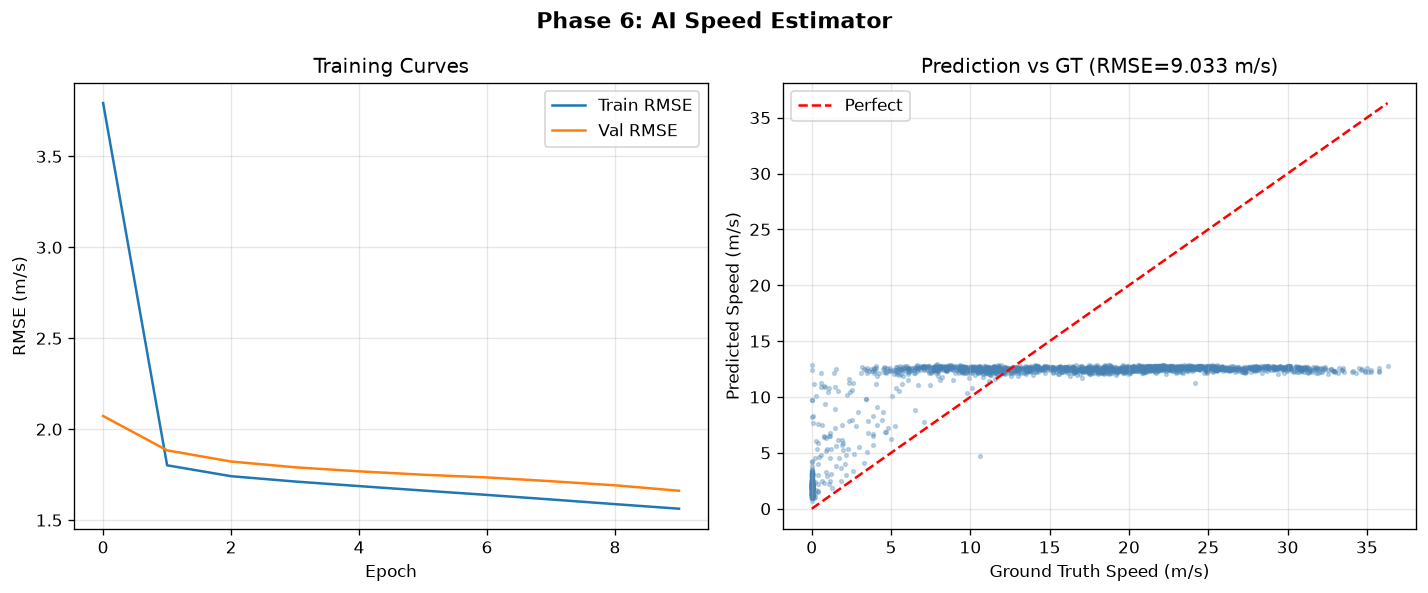
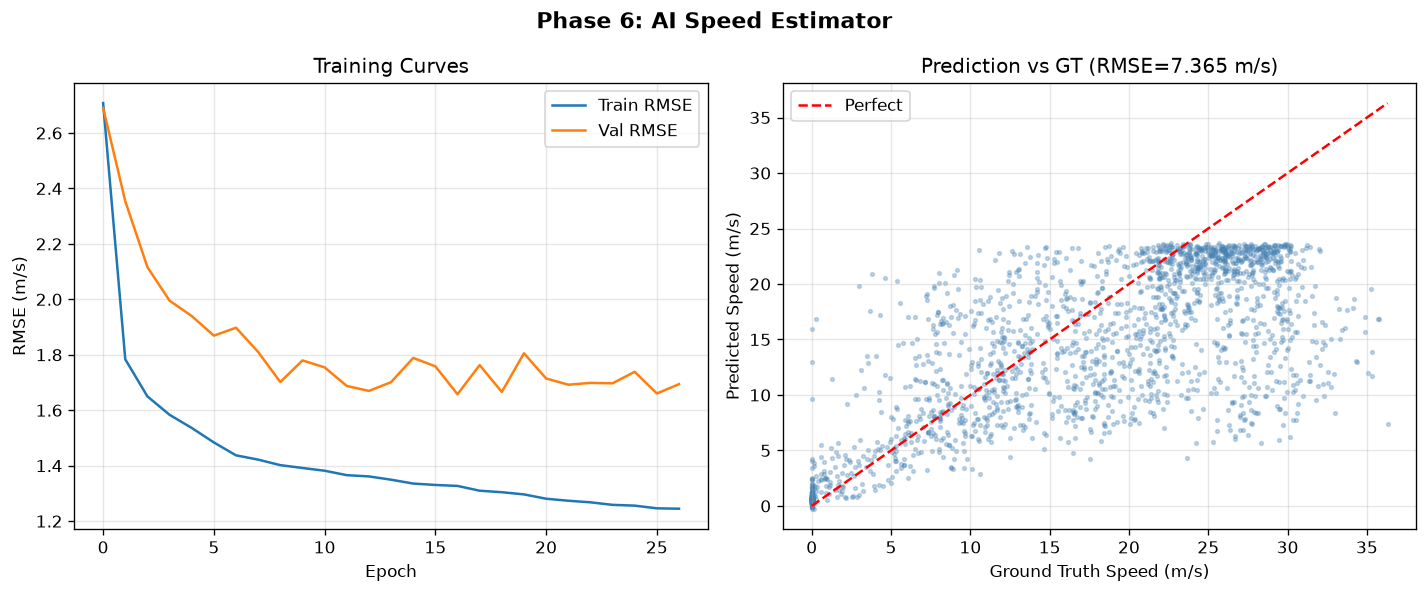
Update metrics/plots and freeze the pre-data-collection baseline
results/metrics/baseline_frozen_2026-09-15/ is an immutable snapshot of the
checkpoint, split, normalization stats and evaluation results at the point the
failure analysis concluded the model is data-limited. Future data-collection
stages compare against these numbers rather than whatever happens to be in
results/metrics at the time.

Also regenerated with the corrected pipeline: split manifest (Vf moved out of
test), normalization stats (now computed from aligned data), phase 8
evaluation (5-window-averaged), and the DR replay diagnostic plot.

diff --git a/results/metrics/dataset_diagnostics_report.md b/results/metrics/dataset_diagnostics_report.md
@@ -1,0 +1,131 @@
+# Dataset Diagnostics Report
+
+## Warnings (sequences excluded or flagged)
+- None.
+
+## Overview
+- Sequences: 71
+- Total duration: 26.97 hours
+- Total distance: 1238.5 km
+- Distinct driver identities: 6 — ['S (Driver A)', 'Vf (Driver E)', 'Vta (Driver E)', 'Vtb (Driver E)', 'Vw (Driver E)', 'Y (Driver D)']
+- Distinct vehicle identities: 1 — ['n/a (IO-VNBD; not separately identified)']
+
+## Per-split breakdown
+| Split | Sequences | Hours | km | Drivers | Vehicles |
+|---|---:|---:|---:|---|---|
+| train | 42 | 6.75 | 311.6 | Vta (Driver E), Vtb (Driver E) | n/a (IO-VNBD; not separately identified) |
+| val | 22 | 9.52 | 590.4 | Vf (Driver E), Vw (Driver E) | n/a (IO-VNBD; not separately identified) |
+| test | 7 | 10.71 | 336.5 | S (Driver A), Y (Driver D) | n/a (IO-VNBD; not separately identified) |
+
+## Speed distribution (all sequences combined)
+| Bin (m/s) | Count | Fraction |
+|---|---:|---:|
+| 0-0.5 | 111953 | 11.6% |
+| 0.5-2 | 35552 | 3.7% |
+| 2-5 | 58373 | 6.1% |
+| 5-10 | 194438 | 20.2% |
+| 10-20 | 333163 | 34.5% |
+| 20+ | 231288 | 24.0% |
+
+## Distribution differences between splits
+  test  : speed mean=8.80 m/s, std=6.30 m/s, n_samples=379124
+  val   : speed mean=17.25 m/s, std=9.84 m/s, n_samples=342588
+  train : speed mean=12.82 m/s, std=7.66 m/s, n_samples=243055
+  KS test train vs val: statistic=0.299, p=0.00e+00 (DIFFERENT distributions)
+  KS test train vs test: statistic=0.276, p=0.00e+00 (DIFFERENT distributions)
+  KS test val vs test: statistic=0.483, p=0.00e+00 (DIFFERENT distributions)
+
+## Synchronization issues (V-file/S-file row-count mismatch)
+- V-Vfa01: V=11535 rows, S=11486 rows (handled by truncation in loader.load_sequence — informational only)
+- V-Vfa02: V=67755 rows, S=67523 rows (handled by truncation in loader.load_sequence — informational only)
+- Vta01b: V=953 rows, S=954 rows (handled by truncation in loader.load_sequence — informational only)
+- Vtb10: V=195 rows, S=196 rows (handled by truncation in loader.load_sequence — informational only)
+- Vw01: V=20475 rows, S=20476 rows (handled by truncation in loader.load_sequence — informational only)
+- Vw02: V=52712 rows, S=52713 rows (handled by truncation in loader.load_sequence — informational only)
+- Vw04: V=126527 rows, S=126526 rows (handled by truncation in loader.load_sequence — informational only)
+- Vw09: V=553 rows, S=552 rows (handled by truncation in loader.load_sequence — informational only)
+- Vw15: V=1391 rows, S=1380 rows (handled by truncation in loader.load_sequence — informational only)
+
+## Missing data
+- None found in latitude/velocity/accel_x.
+
+## Train/val/test contamination check
+- ✅ No driver/vehicle identity appears in more than one split.
+
+## Duplicate / near-duplicate segment detection
+- ⚠  Vw07 and Vw08 have similar start location, duration, and distance — check they aren't the same drive ingested twice, or trivially redundant.
+
+## Per-sequence detail
+| Sequence | Split | Driver | Vehicle | Duration (min) | Distance (km) | Mean speed (m/s) | Mean |fwd accel| (m/s²) | Mean |yaw rate| (rad/s) |
+|---|---|---|---|---:|---:|---:|---:|---:|
+| S1 | test | S (Driver A) | n/a (IO-VNBD; not separately identified) | 86.2 | 38.0 | 7.33 | 0.79 | 0.069 |
+| S2 | test | S (Driver A) | n/a (IO-VNBD; not separately identified) | 156.5 | 75.5 | 8.04 | 0.82 | 0.066 |
+| S3a | test | S (Driver A) | n/a (IO-VNBD; not separately identified) | 41.0 | 25.9 | 10.54 | 0.65 | 0.058 |
+| S3b | test | S (Driver A) | n/a (IO-VNBD; not separately identified) | 11.4 | 3.8 | 5.53 | 0.79 | 0.095 |
+| S3c | test | S (Driver A) | n/a (IO-VNBD; not separately identified) | 62.0 | 44.1 | 11.75 | 0.67 | 0.060 |
+| S4 | test | S (Driver A) | n/a (IO-VNBD; not separately identified) | 157.7 | 88.4 | 9.35 | 0.75 | 0.049 |
+| V-Vfa01 | val | Vf (Driver E) | n/a (IO-VNBD; not separately identified) | 19.1 | 18.8 | 16.34 | 1.36 | 0.037 |
+| V-Vfa02 | val | Vf (Driver E) | n/a (IO-VNBD; not separately identified) | 112.5 | 163.1 | 24.15 | 1.50 | 0.016 |
+| Vta01a | train | Vta (Driver E) | n/a (IO-VNBD; not separately identified) | 42.8 | 40.7 | 15.86 | 1.98 | 0.044 |
+| Vta01b | train | Vta (Driver E) | n/a (IO-VNBD; not separately identified) | 1.6 | 1.3 | 13.21 | 1.55 | 0.038 |
+| Vta02 | train | Vta (Driver E) | n/a (IO-VNBD; not separately identified) | 18.3 | 11.0 | 10.05 | 1.74 | 0.040 |
+| Vta03 | train | Vta (Driver E) | n/a (IO-VNBD; not separately identified) | 1.1 | 0.4 | 5.83 | 0.78 | 0.098 |
+| Vta04 | train | Vta (Driver E) | n/a (IO-VNBD; not separately identified) | 3.0 | 2.0 | 11.14 | 1.67 | 0.040 |
+| Vta05 | train | Vta (Driver E) | n/a (IO-VNBD; not separately identified) | 0.5 | 0.4 | 11.80 | 1.91 | 0.068 |
+| Vta06 | train | Vta (Driver E) | n/a (IO-VNBD; not separately identified) | 2.3 | 2.6 | 18.85 | 2.43 | 0.017 |
+| Vta07 | train | Vta (Driver E) | n/a (IO-VNBD; not separately identified) | 1.4 | 1.5 | 17.94 | 1.91 | 0.075 |
+| Vta08 | train | Vta (Driver E) | n/a (IO-VNBD; not separately identified) | 6.1 | 3.4 | 9.26 | 1.20 | 0.025 |
+| Vta09 | train | Vta (Driver E) | n/a (IO-VNBD; not separately identified) | 0.3 | 0.3 | 19.93 | 1.31 | 0.006 |
+| Vta10 | train | Vta (Driver E) | n/a (IO-VNBD; not separately identified) | 2.5 | 3.7 | 25.00 | 1.87 | 0.030 |
+| Vta11 | train | Vta (Driver E) | n/a (IO-VNBD; not separately identified) | 0.8 | 0.7 | 14.05 | 2.08 | 0.165 |
+| Vta12 | train | Vta (Driver E) | n/a (IO-VNBD; not separately identified) | 1.0 | 1.1 | 18.42 | 1.29 | 0.019 |
+| Vta13 | train | Vta (Driver E) | n/a (IO-VNBD; not separately identified) | 0.7 | 1.0 | 24.26 | 1.63 | 0.040 |
+| Vta14 | train | Vta (Driver E) | n/a (IO-VNBD; not separately identified) | 4.8 | 5.4 | 18.83 | 1.83 | 0.023 |
+| Vta15 | train | Vta (Driver E) | n/a (IO-VNBD; not separately identified) | 1.4 | 1.7 | 19.88 | 1.98 | 0.023 |
+| Vta16 | train | Vta (Driver E) | n/a (IO-VNBD; not separately identified) | 18.9 | 13.7 | 12.04 | 1.30 | 0.044 |
+| Vta17 | train | Vta (Driver E) | n/a (IO-VNBD; not separately identified) | 7.5 | 4.1 | 9.08 | 1.67 | 0.050 |
+| Vta19 | train | Vta (Driver E) | n/a (IO-VNBD; not separately identified) | 0.5 | 0.2 | 8.08 | 1.28 | 0.036 |
+| Vta20 | train | Vta (Driver E) | n/a (IO-VNBD; not separately identified) | 5.4 | 0.4 | 1.17 | 0.51 | 0.012 |
+| Vta21 | train | Vta (Driver E) | n/a (IO-VNBD; not separately identified) | 3.5 | 2.8 | 13.27 | 1.90 | 0.050 |
+| Vta22 | train | Vta (Driver E) | n/a (IO-VNBD; not separately identified) | 2.6 | 1.7 | 10.61 | 1.64 | 0.064 |
+| Vta23 | train | Vta (Driver E) | n/a (IO-VNBD; not separately identified) | 1.8 | 1.1 | 9.81 | 2.37 | 0.065 |
+| Vta24 | train | Vta (Driver E) | n/a (IO-VNBD; not separately identified) | 1.9 | 0.7 | 5.93 | 0.97 | 0.065 |
+| Vta25 | train | Vta (Driver E) | n/a (IO-VNBD; not separately identified) | 1.1 | 0.2 | 2.46 | 0.93 | 0.088 |
+| Vta26 | train | Vta (Driver E) | n/a (IO-VNBD; not separately identified) | 3.2 | 1.0 | 5.17 | 1.41 | 0.028 |
+| Vta27 | train | Vta (Driver E) | n/a (IO-VNBD; not separately identified) | 4.2 | 3.1 | 12.40 | 1.87 | 0.037 |
+| Vta28 | train | Vta (Driver E) | n/a (IO-VNBD; not separately identified) | 7.0 | 3.9 | 9.33 | 1.96 | 0.059 |
+| Vta29 | train | Vta (Driver E) | n/a (IO-VNBD; not separately identified) | 39.5 | 26.1 | 10.99 | 1.68 | 0.055 |
+| Vta30 | train | Vta (Driver E) | n/a (IO-VNBD; not separately identified) | 28.6 | 11.7 | 6.85 | 1.04 | 0.035 |
+| Vtb01 | train | Vtb (Driver E) | n/a (IO-VNBD; not separately identified) | 54.1 | 41.9 | 12.80 | 1.40 | 0.043 |
+| Vtb02 | train | Vtb (Driver E) | n/a (IO-VNBD; not separately identified) | 9.5 | 4.3 | 7.55 | 1.37 | 0.049 |
+| Vtb03 | train | Vtb (Driver E) | n/a (IO-VNBD; not separately identified) | 13.7 | 0.7 | 0.82 | 0.45 | 0.019 |
+| Vtb04 | train | Vtb (Driver E) | n/a (IO-VNBD; not separately identified) | 0.9 | 0.2 | 4.34 | 2.11 | 0.050 |
+| Vtb05 | train | Vtb (Driver E) | n/a (IO-VNBD; not separately identified) | 107.3 | 111.4 | 17.32 | 1.23 | 0.022 |
+| Vtb06 | train | Vtb (Driver E) | n/a (IO-VNBD; not separately identified) | 0.8 | 0.9 | 17.59 | 1.62 | 0.009 |
+| Vtb07 | train | Vtb (Driver E) | n/a (IO-VNBD; not separately identified) | 0.8 | 0.7 | 15.67 | 0.90 | 0.031 |
+| Vtb08 | train | Vtb (Driver E) | n/a (IO-VNBD; not separately identified) | 1.1 | 1.3 | 19.39 | 0.84 | 0.005 |
+| Vtb09 | train | Vtb (Driver E) | n/a (IO-VNBD; not separately identified) | 0.8 | 1.0 | 21.41 | 1.69 | 0.005 |
+| Vtb10 | train | Vtb (Driver E) | n/a (IO-VNBD; not separately identified) | 0.3 | 0.2 | 11.59 | 0.93 | 0.066 |
+| Vtb11 | train | Vtb (Driver E) | n/a (IO-VNBD; not separately identified) | 0.6 | 0.7 | 19.39 | 2.35 | 0.007 |
+| Vtb12 | train | Vtb (Driver E) | n/a (IO-VNBD; not separately identified) | 0.7 | 0.5 | 11.88 | 1.34 | 0.082 |
+| Vw01 | val | Vw (Driver E) | n/a (IO-VNBD; not separately identified) | 34.1 | 0.0 | 0.01 | 0.25 | 0.001 |
+| Vw02 | val | Vw (Driver E) | n/a (IO-VNBD; not separately identified) | 87.9 | 98.4 | 18.70 | 1.55 | 0.025 |
+| Vw03 | val | Vw (Driver E) | n/a (IO-VNBD; not separately identified) | 6.4 | 4.9 | 12.80 | 1.59 | 0.069 |
+| Vw04 | val | Vw (Driver E) | n/a (IO-VNBD; not separately identified) | 210.9 | 214.2 | 16.94 | 1.57 | 0.041 |
+| Vw05 | val | Vw (Driver E) | n/a (IO-VNBD; not separately identified) | 1.7 | 0.7 | 6.58 | 1.69 | 0.122 |
+| Vw06 | val | Vw (Driver E) | n/a (IO-VNBD; not separately identified) | 2.1 | 1.1 | 8.43 | 1.73 | 0.080 |
+| Vw07 | val | Vw (Driver E) | n/a (IO-VNBD; not separately identified) | 2.7 | 1.2 | 7.24 | 1.61 | 0.116 |
+| Vw08 | val | Vw (Driver E) | n/a (IO-VNBD; not separately identified) | 2.5 | 1.1 | 6.94 | 1.85 | 0.104 |
+| Vw09 | val | Vw (Driver E) | n/a (IO-VNBD; not separately identified) | 0.9 | 0.4 | 7.63 | 1.37 | 0.129 |
+| Vw10 | val | Vw (Driver E) | n/a (IO-VNBD; not separately identified) | 1.1 | 0.7 | 11.25 | 2.01 | 0.057 |
+| Vw11 | val | Vw (Driver E) | n/a (IO-VNBD; not separately identified) | 8.2 | 5.8 | 11.89 | 1.42 | 0.044 |
+| Vw12 | val | Vw (Driver E) | n/a (IO-VNBD; not separately identified) | 1.5 | 2.3 | 25.11 | 0.98 | 0.006 |
+| Vw13 | val | Vw (Driver E) | n/a (IO-VNBD; not separately identified) | 0.5 | 0.8 | 27.38 | 2.94 | 0.006 |
+| Vw14a | val | Vw (Driver E) | n/a (IO-VNBD; not separately identified) | 5.2 | 7.9 | 25.24 | 1.13 | 0.014 |
+| Vw14b | val | Vw (Driver E) | n/a (IO-VNBD; not separately identified) | 32.6 | 41.1 | 21.02 | 1.27 | 0.010 |
+| Vw14c | val | Vw (Driver E) | n/a (IO-VNBD; not separately identified) | 26.4 | 17.1 | 10.80 | 1.05 | 0.023 |
+| Vw15 | val | Vw (Driver E) | n/a (IO-VNBD; not separately identified) | 2.3 | 0.0 | 0.02 | 0.21 | 0.001 |
+| Vw16a | val | Vw (Driver E) | n/a (IO-VNBD; not separately identified) | 9.8 | 8.5 | 14.42 | 0.98 | 0.021 |
+| Vw16b | val | Vw (Driver E) | n/a (IO-VNBD; not separately identified) | 1.9 | 1.9 | 16.79 | 1.18 | 0.019 |
+| Vw17 | val | Vw (Driver E) | n/a (IO-VNBD; not separately identified) | 0.5 | 0.5 | 16.40 | 1.60 | 0.013 |
+| Y1 | test | Y (Driver D) | n/a (IO-VNBD; not separately identified) | 127.8 | 60.7 | 8.33 | 0.45 | 0.060 |

diff --git a/results/metrics/baseline_frozen_2026-09-15/README.md b/results/metrics/baseline_frozen_2026-09-15/README.md
@@ -1,0 +1,30 @@
+# Frozen Baseline — 2026-09-15
+
+This directory is an immutable snapshot of the model checkpoint and evaluation
+results at the point the failure analysis (`FAILURE_ANALYSIS_AND_NEXT_STEPS.md`)
+concluded the system is data-limited. **Never overwrite these files.** All
+future data-collection stages compare against these numbers, not against
+whatever happens to be in the live `results/metrics/` directory at the time.
+
+## Frozen numbers (source of truth for comparison)
+
+- Training data: 42 sequences, 311.4 km, 6.75 hours, single driver/vehicle family (`Vta`+`Vtb`, "Driver E")
+- CNN-GRU validation RMSE: **7.365 m/s (26.51 km/h)** — `phase6_speed_estimator.json`
+- CNN-GRU raw RMSE on genuinely unseen test drivers: **8.47 m/s (30.5 km/h)** — measured in `FAILURE_ANALYSIS_AND_NEXT_STEPS.md` §4 Exp. 2, not stored as a file here (reproducible via `DATASET_PROTOCOL.md`'s diagnostic procedure)
+- EKF-only diagnostic ceiling (ground-truth speed substituted, isolated diagnostic, never a system metric): **9.1% mean drift** — `FAILURE_ANALYSIS_AND_NEXT_STEPS.md` §4 Exp. 4
+- End-to-end system drift (5-window-averaged, the real SIH metric): **103.7% mean, 0/7 pass** — `phase8_full_evaluation.json`
+
+## Frozen artifacts in this directory
+
+- `phase6_speed_model.pth` — the exact trained weights behind the numbers above
+- `phase6_speed_estimator.json` — CNN-GRU validation metrics at freeze time
+- `phase8_full_evaluation.json` — full per-sequence system evaluation at freeze time
+- `normalization_stats.json` — normalization stats the frozen model expects (needed to run it correctly if reloaded later)
+- `split_manifest.json` — the exact train/val/test split used to produce these numbers
+
+## How to compare a new result against this baseline
+
+1. Never mix these frozen files with data from a new collection stage.
+2. Regenerate `results/metrics/normalization_stats.json` / `split_manifest.json` fresh for the new, larger dataset (via `pipeline.py`) — do not reuse the frozen ones for new training.
+3. Report new results in the same units/definitions used here: CNN-GRU RMSE in m/s (validation *and* held-out-driver test, kept separate), EKF-only diagnostic ceiling (if re-measured), and end-to-end 5-window-averaged system drift %.
+4. A new result only counts as an improvement over this baseline if it satisfies every criterion in `DATASET_PROTOCOL.md` §5 ("What counts as a valid improvement").
